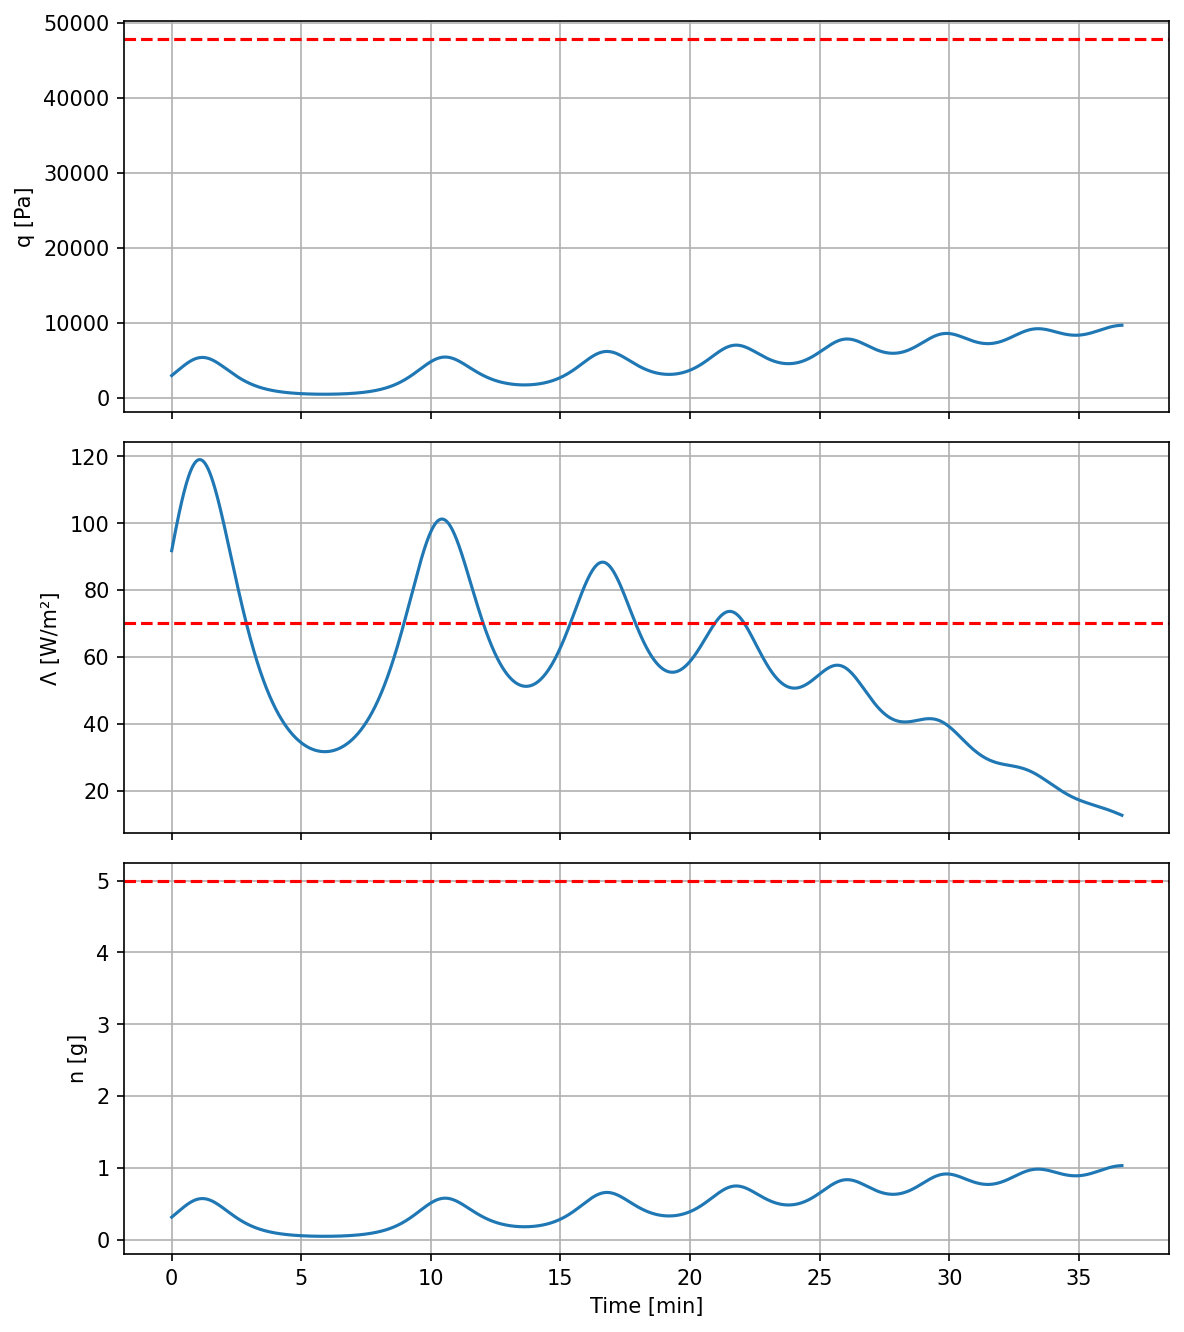
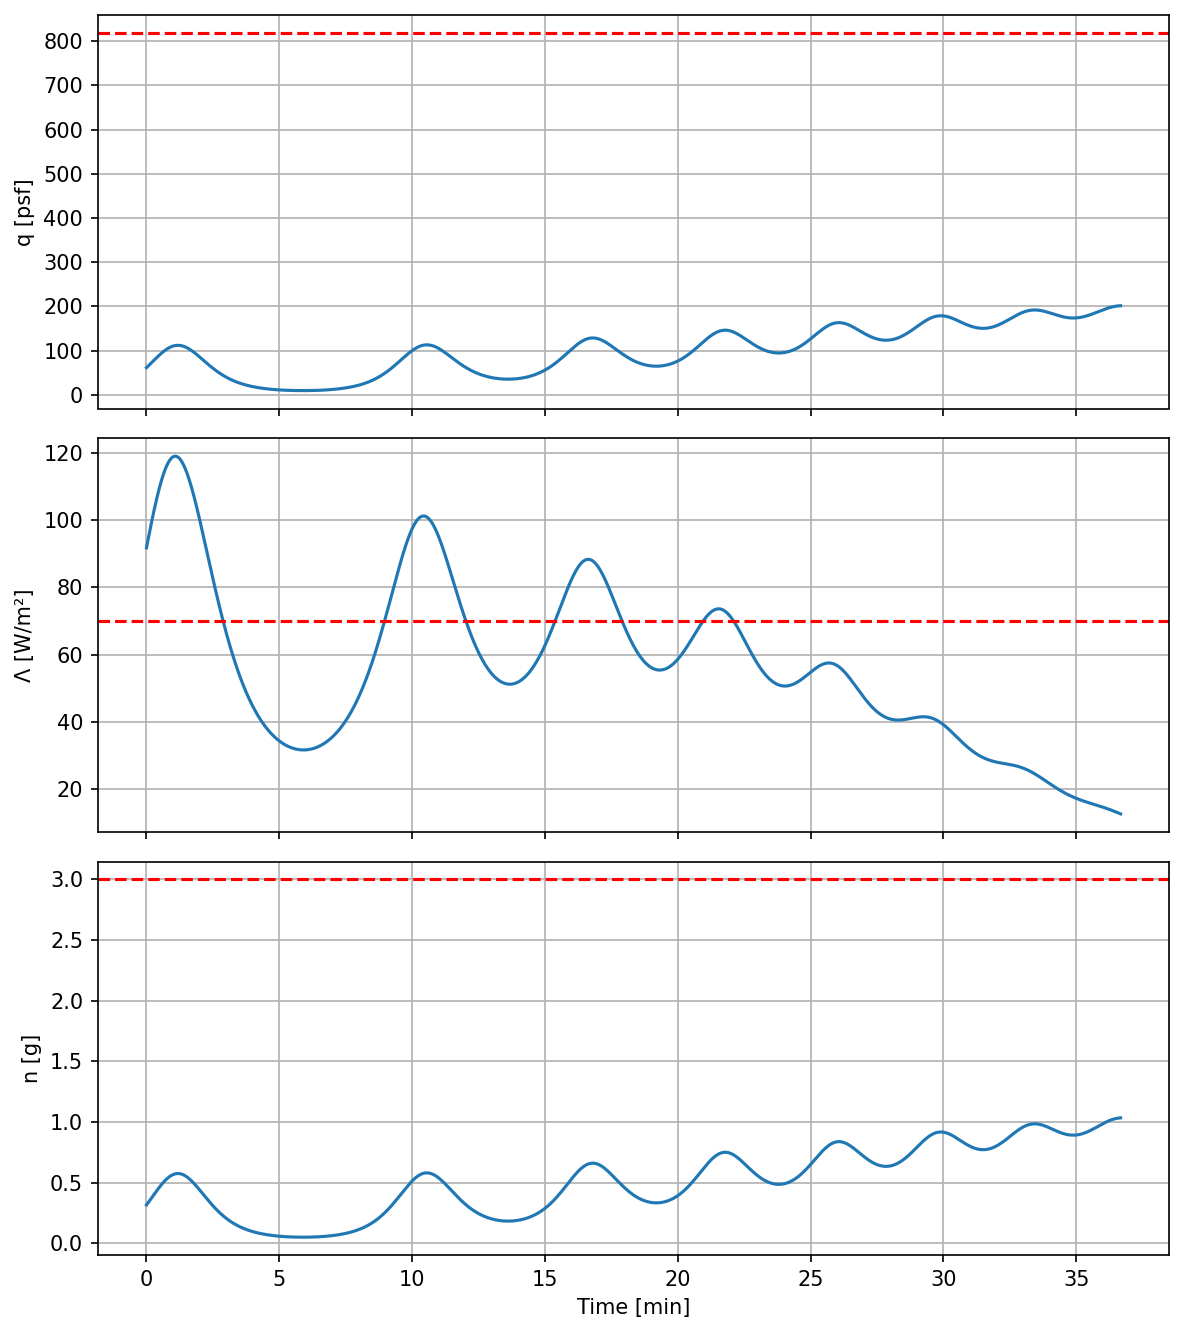
Checkpoint before assistant change: Improve the smoothness of simulated flight paths by adjusting parameters
Decrease N_ocp, q_max, and n_max in nominal_ocp.py and scenario.py to smooth out trajectory oscillations.

Replit-Commit-Author: Assistant

diff --git a/scenario.py b/scenario.py
@@ -35,6 +35,6 @@ xf_mean = np.array([
 ])
 
 # constraint scalars (literature values, Shuttle-specific)
-q_max = 1000 * 47.8803  # 819 psf ⇒ 3.9 × 10⁴ Pa
+q_max = 819 * 47.8803  # 819 psf ⇒ 3.9 × 10⁴ Pa
 Λ_max = 70 * 1055.06 * 3.28084**2  # 70 Btu/ft²/s ⇒ 7.95 × 10⁵ W/m²
-n_max = 5.0  # Orbiter structural limit
+n_max = 3.0  # Orbiter structural limit

diff --git a/nominal_ocp.py b/nominal_ocp.py
@@ -39,7 +39,7 @@ def d_state(x_nd):
 
 
 # === 2. Discretisation parameters =======================================
-N_ocp = 100  # number of shooting intervals
+N_ocp = 50  # number of shooting intervals
 K_RUNG = 4  # RK4 sub-steps per interval
 
 
